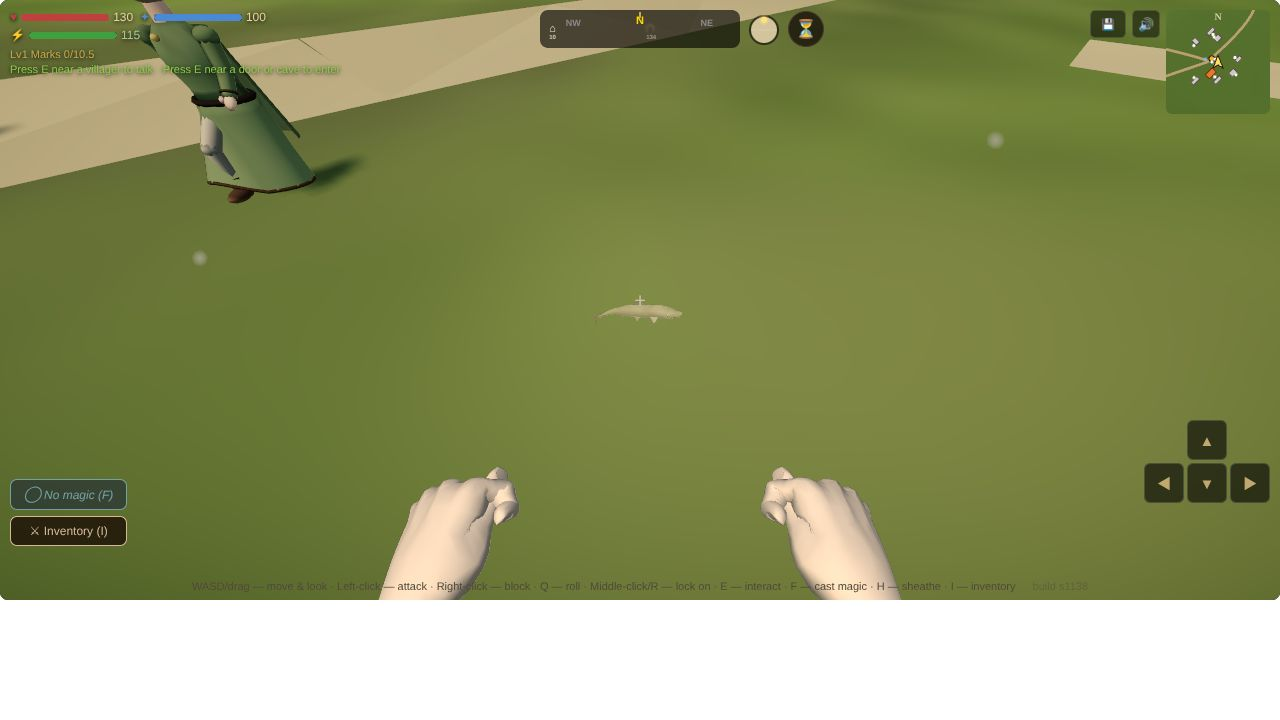
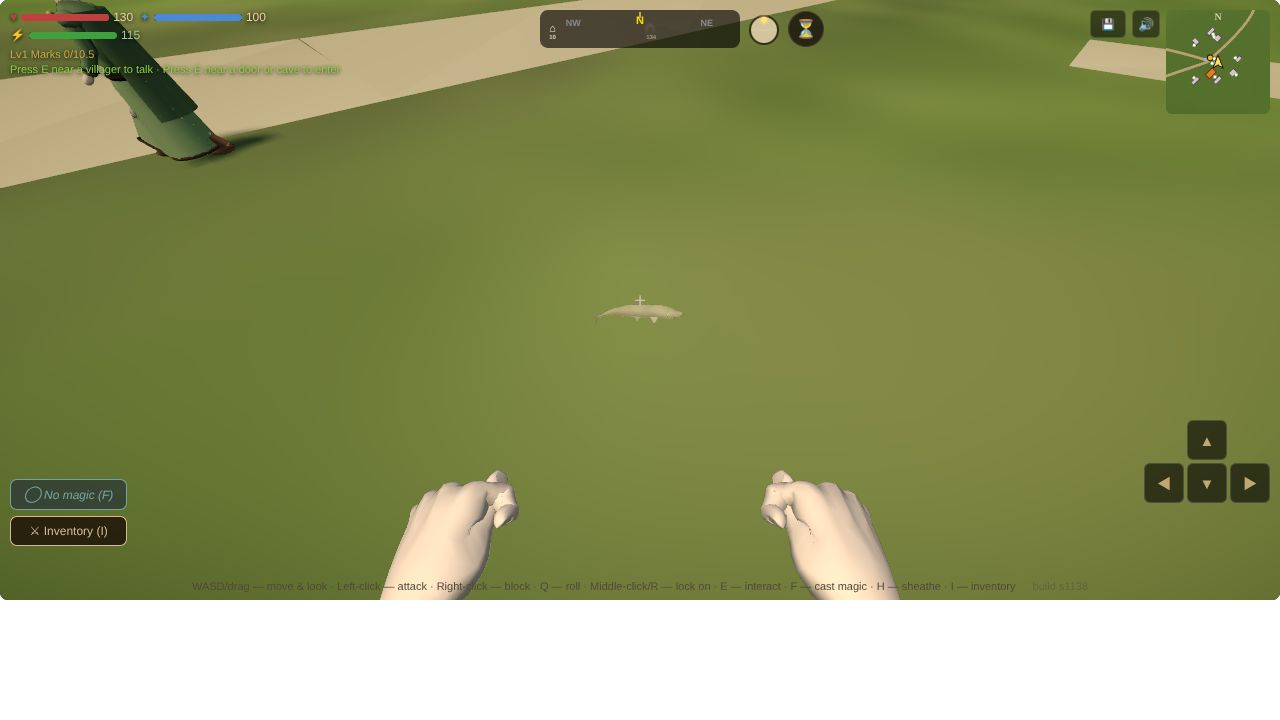
Bodies: Session 1731 — the Stonecrawler and the Marsh Frog on the land path; the Gatelands' fifteen all have bodies
Kit trot and hop on their own legs; cells 0.01 and 0.012 keep the legs (2,908 and 3,952 tris). f4animals green.

Claude-Session: https://claude.ai/code/session_019eFMMktVTf6CLDuevJfxwQ

diff --git a/js/34-creatures.js b/js/34-creatures.js
@@ -376,6 +376,11 @@ SWIMMER['Mire Snake']={len:1,col:0x4a5232,belly:0xc7b880,land:true};
 // Session 1730: the Gatelands' Lantern Beetle (L3, OG-009: glows near old trees and ruins; the kit's lanternbeetle, its glow the kit's own),
 // on the same path: the kit walks it on its own six legs (move, its gait while its group moves; the kit's stride by its legs), 6 cm long
 SWIMMER['Lantern Beetle']={len:.06,col:0x3a3018,land:true,move:'walk',w:.6,h:.3};
+// Session 1731: the last two of the fifteen, whose sprawling legs and hop no game driver has: the Stonecrawler (OG-009: a black-and-blue
+// lizard of the dry-stone walls; the kit's at 0.50 m, a wall lizard's 0.30 here) scurries at the kit's trot, and the Marsh Frog (wetlands;
+// the kit's bellthroat at 0.8, 0.30 m, a frog's 0.12 here) goes by the kit's hop, a pulse
+SWIMMER['Stonecrawler']={len:.3,col:0x1c2230,land:true,move:'trot',w:.14,h:.1};
+SWIMMER['Marsh Frog']={len:.12,col:0x4a6030,land:true,move:'hop',w:.55,h:.4};
 function landStandIn(len,col,w,h){const geo=new THREE.SphereGeometry(1,10,6).toNonIndexed();geo.applyMatrix4(new THREE.Matrix4().makeScale(w/2*len,h/2*len,len/2));
   geo.translate(0,h/2*len,0);geo.computeBoundingSphere();const m=new THREE.Mesh(geo,new THREE.MeshLambertMaterial({color:col}));m.castShadow=false;m.name='crawler';return m;}
 function fishStandIn(len,col){const k=len/.4,parts=[],M=new THREE.Matrix4(),put=(geo,x,y,z,sx,sy,sz,ry)=>{M.makeRotationY(ry||0);
@@ -915,7 +920,7 @@ const HC_KINDS={'Wolf':{plan:'wolf'},'Snow Wolf':{plan:'wolf',own:true},'Dire Wo
   'Gargoyle':{plan:'gargoyle',own:true,person:true,merge:true,ik:true,glow:[1,.31,.13],glowR:.032,glowAt:{f:.8,up:.55,out:.5},garg:true},
   'Wraith':{plan:'wraith',own:true,person:true,legless:true,rest:HC_WRAITH_REST},'Phantom':{plan:'phantom',own:true,person:true,legless:true,rest:HC_WRAITH_REST},
   'Deer':{plan:'deer',ik:true},'Hind':{plan:'deer',own:true,ik:true,bare:true},'Red Fox':{plan:'redfox'},'Brown Hare':{plan:'brownhare'},'Badger':{plan:'badger'},'Otter':{plan:'otter'},'Cow':{plan:'cow',ik:true},'Sheep':{plan:'sheep',ik:true},'Goat':{plan:'goat',ik:true},'Elderstag':{plan:'stag',ik:true},'Gatefen Boar':{plan:'gatefenboar'},'Redspine Fox':{plan:'redspinefox'},'Hollowcat':{plan:'hollowcat'},'Greenward Stoat':{plan:'stoat'},
-  'Shark':{plan:'reefshark',fish:true},'Whale':{plan:'stormwhale',fish:true},'Dolphin':{plan:'stormswift',fish:true},'Gull':{plan:'gull',fish:true,own:true,cell:.014},'Raven':{plan:'raven',fish:true,own:true,cell:.014},'Crow':{plan:'crow',fish:true,own:true,cell:.012},'Trout':{plan:'trout',fish:true,own:true,cell:.014},'River Pike':{plan:'riverpike',fish:true,own:true,cell:.02},'Mire Snake':{plan:'miresnake',fish:true,own:true,cell:.016},'Lantern Beetle':{plan:'lanternbeetle',fish:true,own:true,cell:.03},'Hen':{plan:'hen',fish:true,own:true,cell:.012},'Great Heron':{plan:'heron',fish:true,own:true,cell:.016},'Crag Hawk':{plan:'craghawk',fish:true,own:true,cell:.014},'Capercaillie':{plan:'capercaillie',fish:true,own:true,cell:.016},'Slime':{plan:'slime',fish:true},'Fire Elemental':{plan:'fireelemental',fish:true}};
+  'Shark':{plan:'reefshark',fish:true},'Whale':{plan:'stormwhale',fish:true},'Dolphin':{plan:'stormswift',fish:true},'Gull':{plan:'gull',fish:true,own:true,cell:.014},'Raven':{plan:'raven',fish:true,own:true,cell:.014},'Crow':{plan:'crow',fish:true,own:true,cell:.012},'Trout':{plan:'trout',fish:true,own:true,cell:.014},'River Pike':{plan:'riverpike',fish:true,own:true,cell:.02},'Mire Snake':{plan:'miresnake',fish:true,own:true,cell:.016},'Lantern Beetle':{plan:'lanternbeetle',fish:true,own:true,cell:.03},'Stonecrawler':{plan:'stonecrawler',fish:true,own:true,cell:.01},'Marsh Frog':{plan:'marshfrog',fish:true,own:true,cell:.012},'Hen':{plan:'hen',fish:true,own:true,cell:.012},'Great Heron':{plan:'heron',fish:true,own:true,cell:.016},'Crag Hawk':{plan:'craghawk',fish:true,own:true,cell:.014},'Capercaillie':{plan:'capercaillie',fish:true,own:true,cell:.016},'Slime':{plan:'slime',fish:true},'Fire Elemental':{plan:'fireelemental',fish:true}};
 // the driver's joints and the kit's bones they move, parents first (the kit's front legs hang on spine3, the hind on spine0)
 const HC_MAP=[['hips','spine0'],['spine','spine1'],['neck','neck0'],['head','head'],['jaw','jaw'],['tail1','tail0'],['tail2','tail1'],['tail3','tail2'],
   ['shL','leg0L_0'],['elL','leg0L_1'],['wrL','leg0L_2'],['pfL','leg0L_3'],['shR','leg0R_0'],['elR','leg0R_1'],['wrR','leg0R_2'],['pfR','leg0R_3'],

diff --git a/docs/backlog.md b/docs/backlog.md
@@ -551,7 +551,7 @@ Michael marked all 96 images of the intake on the review page: 63 KEEP and 33 NO
 
 ### L3. Wildlife (the biggest gap: no peaceful land animals today)
 - **The common set first** (look builder, `34-creatures.js`; OG-084): wolf, red fox, brown hare, raven, crow, boar, deer, badger, otter, trout, built once and recoloured by island. Peaceful by default; one name per animal. **Prototyped as plans in the kit, Session 843** (bodies builder; `creatures.js` `COMMON`, `creatures-common.jpg`): all ten build and walk; owed: the game (after F4, behind `?look=new`), ~~the wolf~~ in it since Session 1202 (the Wolf, the Snow Wolf, the Dire Wolf; `f4wolves`), ~~the boar~~ since Session 1251 (the Boar foe's body, and the Mark's bear in the Cave Bear's brown as the Cave Bear's; `f4beasts`), ~~the Ash Hound~~ since Session 1274 (the kit's own `ashhound`: the wolf leaner and ash-grey, eyes lit, the embers a broken seam down the back; `f4beasts`, `f4wolves`), the peaceful ones still owed (they need a spawn, the systems builder's; **asked, Session 1687**, DECISION #984: where, how many, what they do on seeing you, and whether you can hunt them; A, present and huntable, recommended); Michael's A, present and huntable); ~~their bodies in the game~~ — done, Session 1704 (the Deer, the Red Fox, the Brown Hare, the Badger and the Otter: `buildAnimal(name,key)` in `34-creatures.js`, the kit's own plan each at its size in metres, keyed `wild:<key>`; `f4animals`; half the deer hinds by key, Session 1706), so the spawn is the systems builder's to call; ~~the spawn~~ — done, Session 1707 (`tickWildSpawn` in `88-world-ticks.js`: a chunk within 150 m rolls one group or none by its id and biome, off pads and roads; `tickWildOne` in `42-zone-enemies.js`: they graze, wander and run 40 m from your sight or sound; one blow kills, a deer 2 to 4 meat, a hare 1; `wildlife`); ~~the raven and the crow~~ — done, Sessions 1710 (their body, `buildBird`) and 1716 (in the spawn, carried from #1008 where it was first numbered 1711: crows on fields and shore, ravens on moor and tundra; startled they take off to 8–14 m, fly 60 m and land; aloft out of a blade's reach, an arrow must meet their height; `wildlife`); ~~the trout's body~~ — done, Session 1712 (`buildAnimal('Trout', key)`, no driver, a 120-triangle stand-in and the kit's trout near, 4,156 triangles, its beat by the water its group covers; `f4animals`), its spawn in the rivers the systems builder's (**asked, Session 1718**, DECISION #1014: how you take one; A, by hand while swimming as at sea or struck from the bank, recommended); ~~the island recolourings~~ — done, Session 865 (`COATS`, a genome's `island`); ~~the badger's face stripes~~ — done, Session 845 (a face mask in the kit). ~~Their feet on a slope (`character-builder.md`, B5)~~ — done, Session 1547 (`hcGround`: each toe on the ground under it by a two-bone reach, the body lowered when a downhill leg is straight; the bear 17 → 3 cm on a 0.20 slope; `f4beasts`).
-- **The Gatelands' fifteen** (OG-009): Elderstag, Gatefen Boar (roots up forgotten paths), Redspine Fox, otter, heron, badger, Hollowcat, stoat, Crag Hawk, Marsh Frog, River Pike, Stonecrawler, Mire Snake, Lantern Beetle (glows near ruins; an ingredient); a capercaillie in place of the turkey. **All fifteen are plans in the kit, Session 846** (bodies builder; `creatures.js` `GATELANDS`, `creatures-gatelands.jpg`); owed: the game, after F4: ~~the Elderstag, the Gatefen Boar, the Redspine Fox, the Hollowcat and the Greenward Stoat~~ have bodies in it since Session 1727 (renumbered from 1722; `buildAnimal`, wild, on the wolf's driver; `f4animals`; the spawn is the systems builder's), ~~the heron, the hawk and the capercaillie~~ since Session 1723 (the birds' path, their gaits by their plans'), ~~the pike~~ since Session 1724 (the trout's path), the Stonecrawler and the frog (sprawling legs the wolf's driver has not got) still owed, ~~the beetle~~ since Session 1730 (the snake's path, walking on the kit's six legs, 3,652 tris), ~~the snake~~ since Session 1728 (the trout's path on land, `SWIMMER`'s `land`: lying, slithering by its group, a wave's length a cycle; ~~the kit's own `strideOf` for slither a legged one's~~ — fixed at the kit, Session 1729: a wave's length a cycle); ~~the Hollowcat sitting with its forefeet together and its tail wrapped round~~ — done, Sessions 1126 and 1130 (`sitTuck`, `sitWrap`; the Sunspire Lynx too, the Stormlynx's bobtail not).
+- **The Gatelands' fifteen** (OG-009): Elderstag, Gatefen Boar (roots up forgotten paths), Redspine Fox, otter, heron, badger, Hollowcat, stoat, Crag Hawk, Marsh Frog, River Pike, Stonecrawler, Mire Snake, Lantern Beetle (glows near ruins; an ingredient); a capercaillie in place of the turkey. **All fifteen are plans in the kit, Session 846** (bodies builder; `creatures.js` `GATELANDS`, `creatures-gatelands.jpg`); owed: the game, after F4: ~~the Elderstag, the Gatefen Boar, the Redspine Fox, the Hollowcat and the Greenward Stoat~~ have bodies in it since Session 1727 (renumbered from 1722; `buildAnimal`, wild, on the wolf's driver; `f4animals`; the spawn is the systems builder's), ~~the heron, the hawk and the capercaillie~~ since Session 1723 (the birds' path, their gaits by their plans'), ~~the pike~~ since Session 1724 (the trout's path), ~~the Stonecrawler and the frog~~ since Session 1731 (the land path, the kit's own trot and hop; so all fifteen have bodies), ~~the beetle~~ since Session 1730 (the snake's path, walking on the kit's six legs, 3,652 tris), ~~the snake~~ since Session 1728 (the trout's path on land, `SWIMMER`'s `land`: lying, slithering by its group, a wave's length a cycle; ~~the kit's own `strideOf` for slither a legged one's~~ — fixed at the kit, Session 1729: a wave's length a cycle); ~~the Hollowcat sitting with its forefeet together and its tail wrapped round~~ — done, Sessions 1126 and 1130 (`sitTuck`, `sitWrap`; the Sunspire Lynx too, the Stormlynx's bobtail not).
 - **The Mark's fifteen** (OG-031): Icehorn (horns that moan in the wind), Ironpine Elk, Stormlynx, Skyraven, Craghorn Ram, Glacial Marmot, Stormshrike, Snowleap Hare (coat by season), Riverjaw Salmon (leaps the falls), Tundra Grouse, Icecrab; Stonefang Wolf and Frostreach Bear as reskins of the Snow Wolf and Cave Bear. **All fifteen are plans in the kit, Session 847** (bodies builder; `creatures.js` `MARK`, `creatures-mark.jpg`); owed: the game, after F4.
 - **Aurenne's fifteen** (OG-030): Duneskimmer, Terrace Ram, Oasis Hare, Scarlet Ibis, Mirage Fox, Cliffswift, Amber Shellcrab (harvestable), Cypress Stalker, Glasswing Moth (an ingredient), Sunbeak Vulture, Spined Gekko; the Saltspine Monitor hostile; the Dunescorpion as the Sand Scorpion's skin; the Sand Wyrm as a set piece known by its funnels. **Fourteen are plans in the kit, Session 848** (bodies builder; `creatures.js` `AURENNE`, `creatures-aurenne.jpg`); owed: the game, after F4; ~~the Glasswing Moth~~ — done, Session 864 (a moth's glass wings in the kit), so all fifteen are plans.
 - **The strange beasts** (OG-040): the Crownstag, the Mossback (a tortoise carrying a garden), the Bellthroat (its call at dusk), the Lanternfox, the Thornrunner; the Shatterhorn, the Frostmane (a pack beast), the Glasswing, the Stonejaw, the Stormplume; the Redcrest, the Sunfan, the Mineprowler, the Sailshell. Wonder without menace, mostly peaceful. A few have six legs, and that is ordinary (Michael's 9 A). **All fourteen are plans in the kit, Session 853** (bodies builder; `creatures.js` `STRANGE`, `creatures-strange.jpg`): six from Sessions 773 to 775 and eight new (the Crownstag, the Lanternfox, the Thornrunner, the Frostmane, the Glasswing, the Stonejaw, the Redcrest, the Sunfan); owed: the game, after F4.

diff --git a/docs/devlog/1731.md b/docs/devlog/1731.md
@@ -1,0 +1,24 @@
+## v80 — Session 1731 — the Stonecrawler and the Marsh Frog: the Gatelands' fifteen all have bodies in the game
+The last two of L3's Gatelands' fifteen (OG-009) were owed because their legs sprawl (the lizard's, the kit's `sprawl`) or leap (the
+frog's hop, a pulse), and the wolf's driver has neither. On the land path of Sessions 1728 and 1730, the kit poses its own legs, so
+neither needs a driver. Each is one `SWIMMER` row and one `HC_KINDS` row:
+- **Stonecrawler**: the kit's `stonecrawler` is 0.50 m. A lizard of the dry-stone walls is smaller, so the game builds it at 0.30 m
+  (0.285 nose to tail). It scurries at the kit's `trot` while it moves: 5.6 cycles a second at 0.5 m/s. Stand-in 0.30 by 0.042 by 0.03.
+- **Marsh Frog**: the kit's is its `bellthroat` at 0.8, 0.30 m. A frog is 0.12 m here (0.114), going by the kit's `hop`, about 0.26 m
+  a hop at 0.4 m/s. Stand-in 0.12 by 0.066 by 0.048.
+
+The cells, compared on the kit's stage: the lizard at 0.02 is 1,024 triangles and its legs (radius 0.01) are gone. At 0.01 it is 2,948
+with legs (2,908 in the game). The frog at 0.02 is 1,516 with its hind legs thin; at 0.012 it is 3,876 (3,952 in the game). The kit's
+default cell for both was over 10,000. The pictures were not committed.
+
+So all fifteen of OG-009 now have bodies: five on the wolf's driver (1727), three birds (1723), the pike (1724), and four on the land
+path (1728, 1730, this session). The otter and the badger were the common set's.
+
+### Verified (headless Chromium)
+`f4animals` 1/1, all checks. The Stonecrawler: `game:Stonecrawler`, its key's seed, 4 legs, 2,908 triangles, 0.285 m, its lowest point
+on its ground; `stand` at rest, `trot` moving (5.57 cycles over 0.5 m); dropped when taken away. The Marsh Frog: 4 legs, 3,952
+triangles, 0.114 m, `stand`, `hop` (1.54 over 0.4 m), dropped. The thirteen others still build (188 ticks); the snake and the beetle
+are unchanged.
+### Needs eyes
+The frog is the kit's bellthroat, whose throat sac sits under its chin as a pale ball; at 0.12 m it may read as a frog sitting on an
+egg. The lizard's legs are thin at 0.30 m. Spawns (walls for the lizard, marsh edges for the frog) are the systems builder's.
